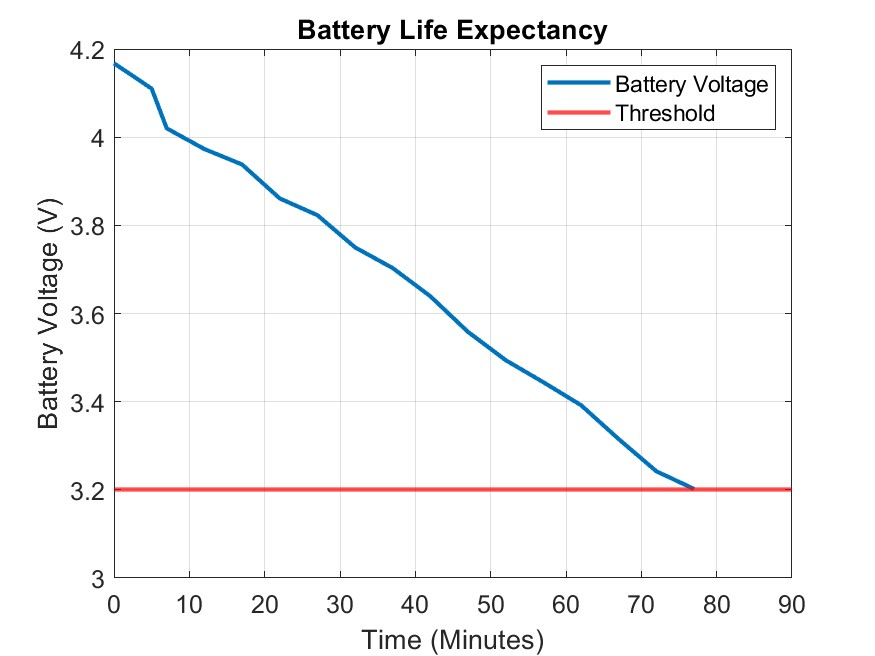
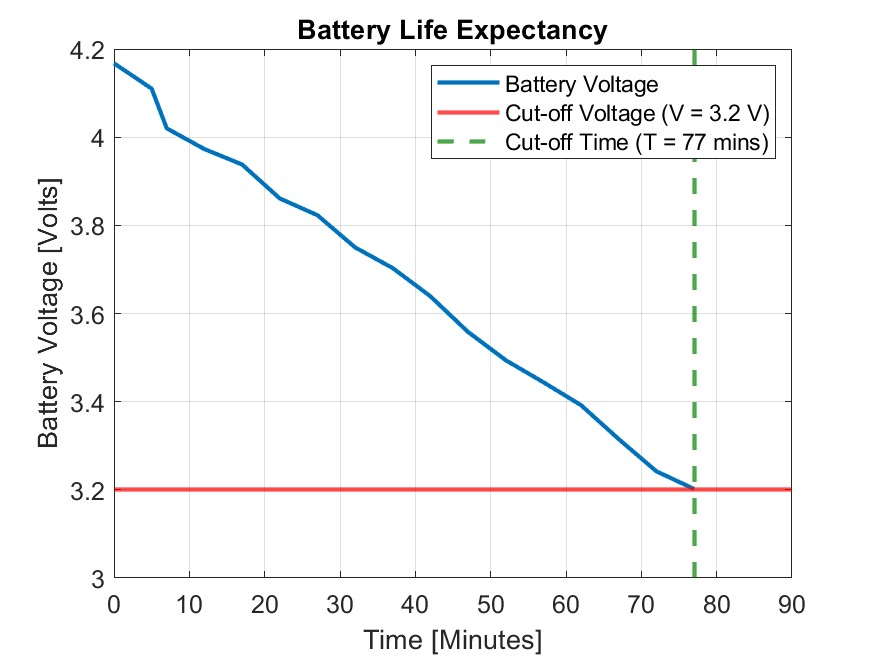
Modified battery metric, made it look better

diff --git a/FSM/plotBatteryMetric.m b/FSM/plotBatteryMetric.m
@@ -6,12 +6,13 @@ f = figure;
 plot(data.TimeElapsed_Minutes_,data.BatteryVoltage_Volts_,'LineWidth',2);
 title('Battery Life Expectancy');
 set(gca,"FontSize",12);
-xlabel('Time (Minutes)');
-ylabel('Battery Voltage (V)');
+xlabel('Time [Minutes]');
+ylabel('Battery Voltage [Volts]');
 hold on;
 axis([0 90 3 4.2]);
 yline(3.2,'LineWidth',2,'Color',[1 0 0]);
-legend('Battery Voltage','Threshold');
+xline(77,'--','LineWidth',2,'Color', [0 0.5 0]);
+legend('Battery Voltage','Cut-off Voltage (V = 3.2 V)','Cut-off Time (T = 77 mins)');
 grid on;
 saveas(f,'batteryMetric.jpg');
 
